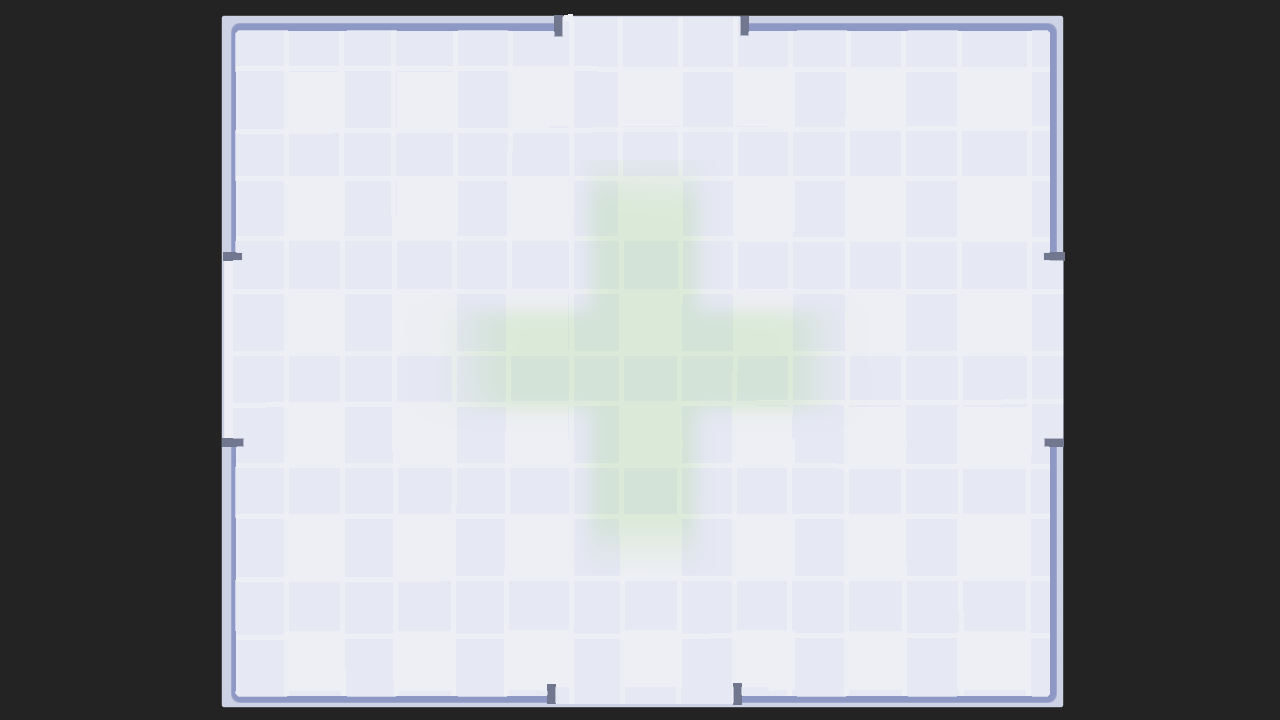
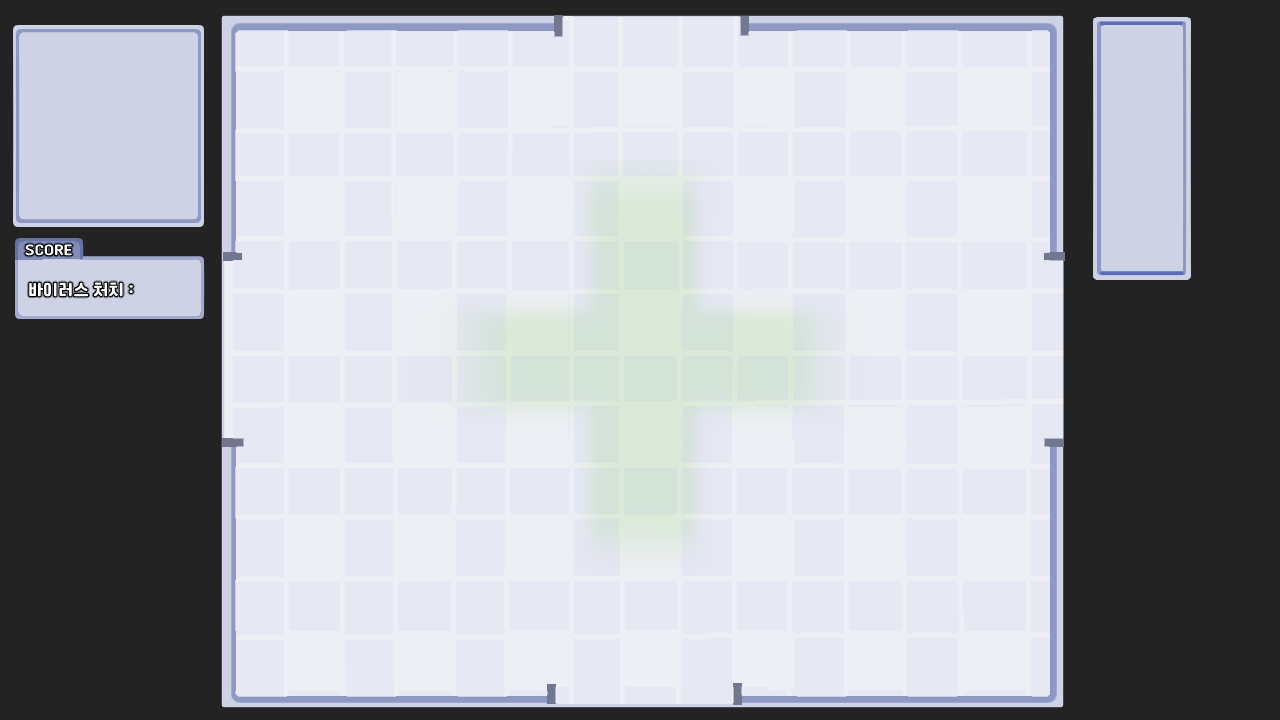
슈팅 게임 - 배경/하트 변경

Changed region(s): [[0.0, 0.0306, 0.1875, 0.4583], [0.8438, 0.0, 0.9375, 0.3972]]

diff --git a/슈팅/슈팅.cpp b/슈팅/슈팅.cpp
@@ -1,4 +1,6 @@
-#include <bangtal.h>
+#define _CRT_SECURE_NO_WARNINGS
+
+#include <bangtal.h>
 
 #include <stdio.h>
 #include <time.h>
@@ -48,13 +50,54 @@ int enemySize = 50;
 int enemyCreationTime = 100;
 int enemyTimer = enemyCreationTime;
 
+ObjectID emotion;
+const char* emotion_images[3] = {
+	"Images/emotion.png",
+	"Images/emotion_hit.png",
+	"Images/emotion_die.png",
+};
+
+int score = 0;
+ObjectID score_display;
+
+const int MAX_HEART = 3;
+ObjectID heart[MAX_HEART];
+int heartNumber = MAX_HEART;
+
+TimerID emotionTimer;
+float emotionTime = 1.f;
+
 TimerID timer;
 float animationTime = 0.01f;
+
+void changeEmotion(int e = 0) {
+	setObjectImage(emotion, emotion_images[e]);
+
+	if (e > 0) {
+		setTimer(emotionTimer, emotionTime);
+		startTimer(emotionTimer);
+	}
+}
+
+void showScore(int score) {
+	char buf[4];
+	sprintf(buf, "%d", score);
+
+	setObjectText(score_display, buf);
+}
 
 void initGame() {
 	playerX = 600, playerY = 300;
 	locateObject(player, scene, playerX, playerY);
 	playerDirection = DIRECTION_NONE;
+
+	heartNumber = MAX_HEART;
+	for (int i = 0; i < heartNumber; ++i) {
+		showObject(heart[i]);
+	}
+
+	score = 0;
+	showScore(score);
 
 	for (int i = 0; i < MAX_BULLET; ++i) {
 		bulletShoot[i] = false;
@@ -223,6 +266,11 @@ void mouseCallback(ObjectID object, int x, int y, MouseAction action) {
 }
 
 void timerCallback(TimerID timer) {
+	if (timer == emotionTimer) {
+		changeEmotion();
+		return;
+	}
+
 	// player movement
 	move(playerX, playerY, playerDirection, playerSpeed, playerSize);
 	locateObject(player, scene, playerX, playerY);
@@ -242,8 +290,12 @@ void timerCallback(TimerID timer) {
 
 			for (int e = 0; e < MAX_ENERMY; ++e) {
 				if (enemyLive[e] && checkBullet(i, e)) {
+					showScore(++score);
+
 					enemyLive[e] = false;
 					hideObject(enemy[e]);
+
+					changeEmotion(1);
 
 					collision = true;
 					break;
@@ -263,7 +315,17 @@ void timerCallback(TimerID timer) {
 	bool end = false;
 	for (int i = 0; i < MAX_ENERMY; ++i) {
 		if (enemyLive[i] && checkEnemy(i)) {
-			end = true;
+			changeEmotion(2);
+
+			--heartNumber;
+			hideObject(heart[heartNumber]);
+
+			if (heartNumber == 0)
+				end = true;
+			else {
+				enemyLive[i] = false;
+				hideObject(enemy[i]);
+			}
 		}
 	}
 
@@ -302,6 +364,14 @@ int main() {
 	setMouseCallback(mouseCallback);
 
 	scene = createScene("슈팅", "Images/background.png");
+	emotion = createObject(emotion_images[emotion], scene, 23, 502);
+	emotionTimer = createTimer(emotionTime);
+
+	for (int i = 0; i < MAX_HEART; ++i) {
+		heart[i] = createObject("Images/heart.png", scene, 1112, 633 - 84 * i);
+	}
+
+	score_display = createObject("Images/score.png", scene, 143, 405);
 
 	for (int i = 0; i < MAX_BULLET; ++i) {
 		bulletShoot[i] = false;
